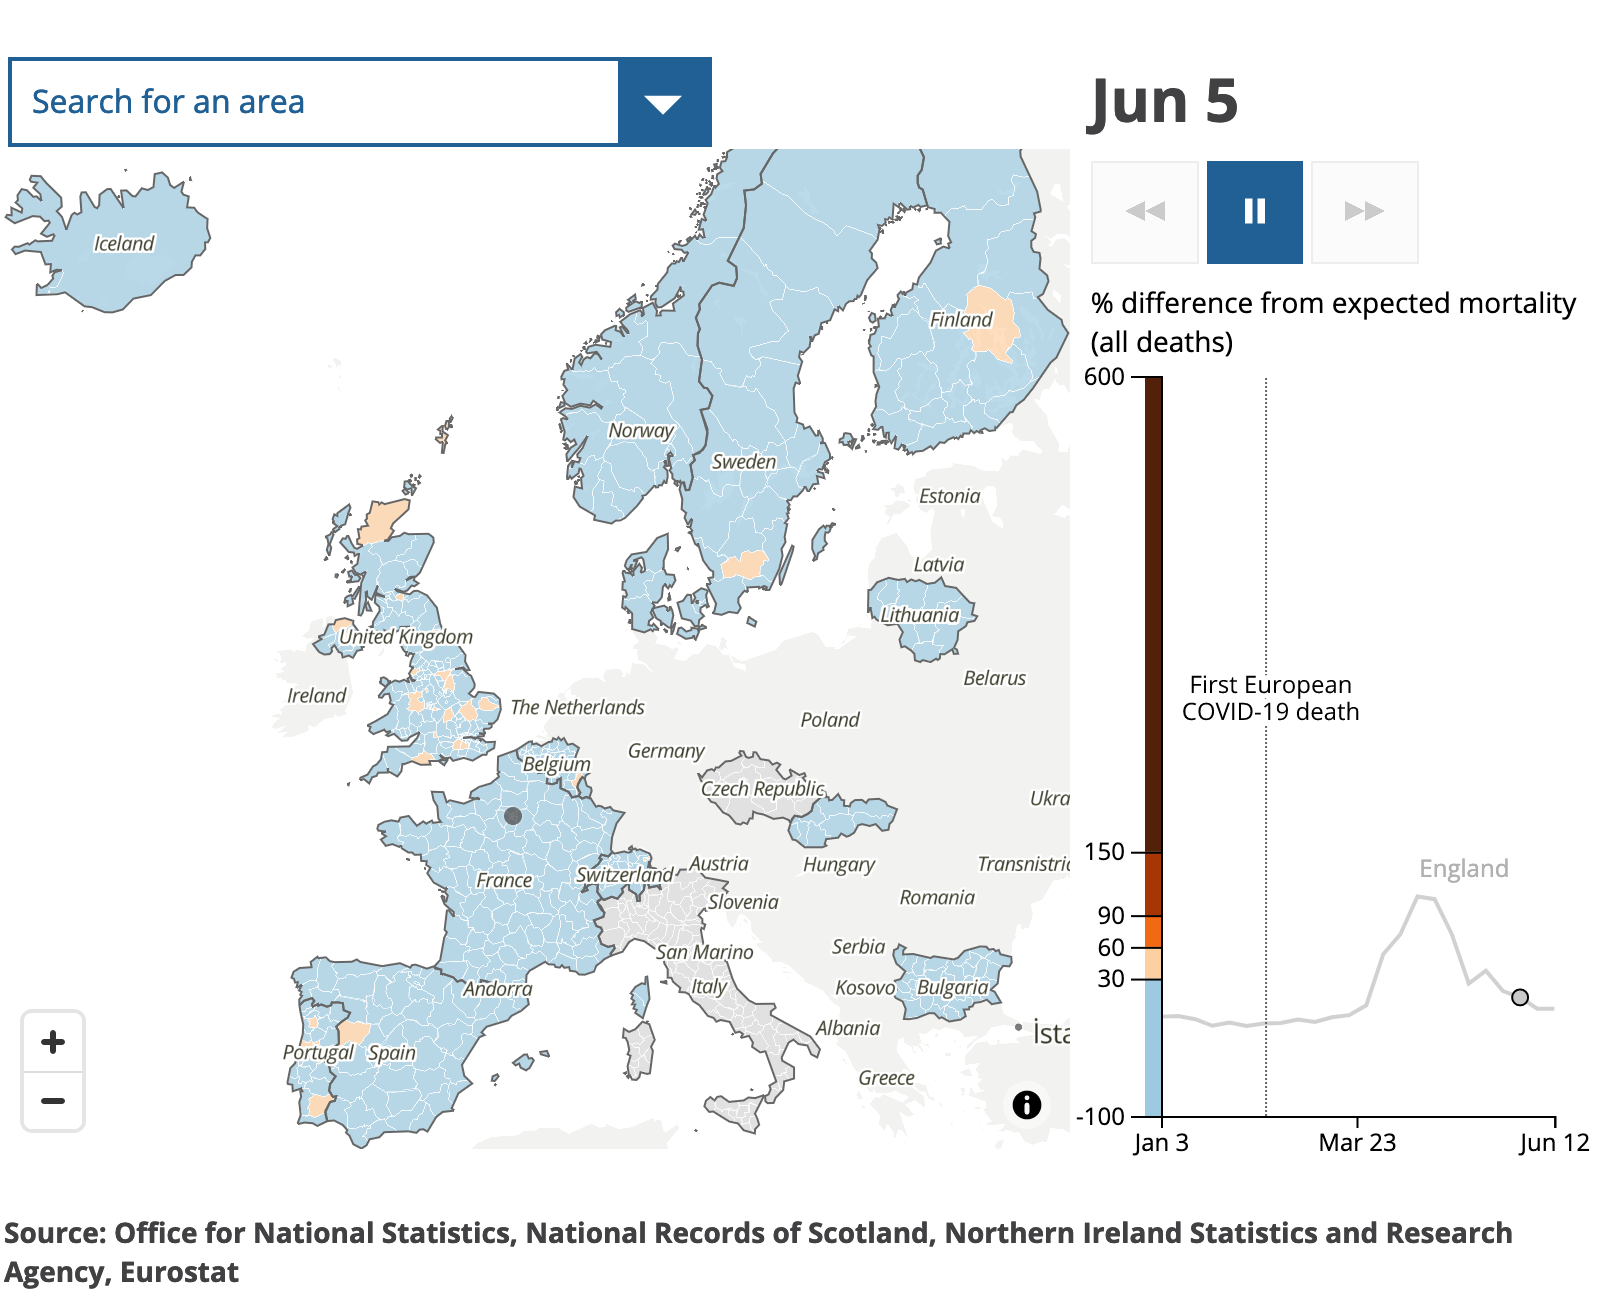
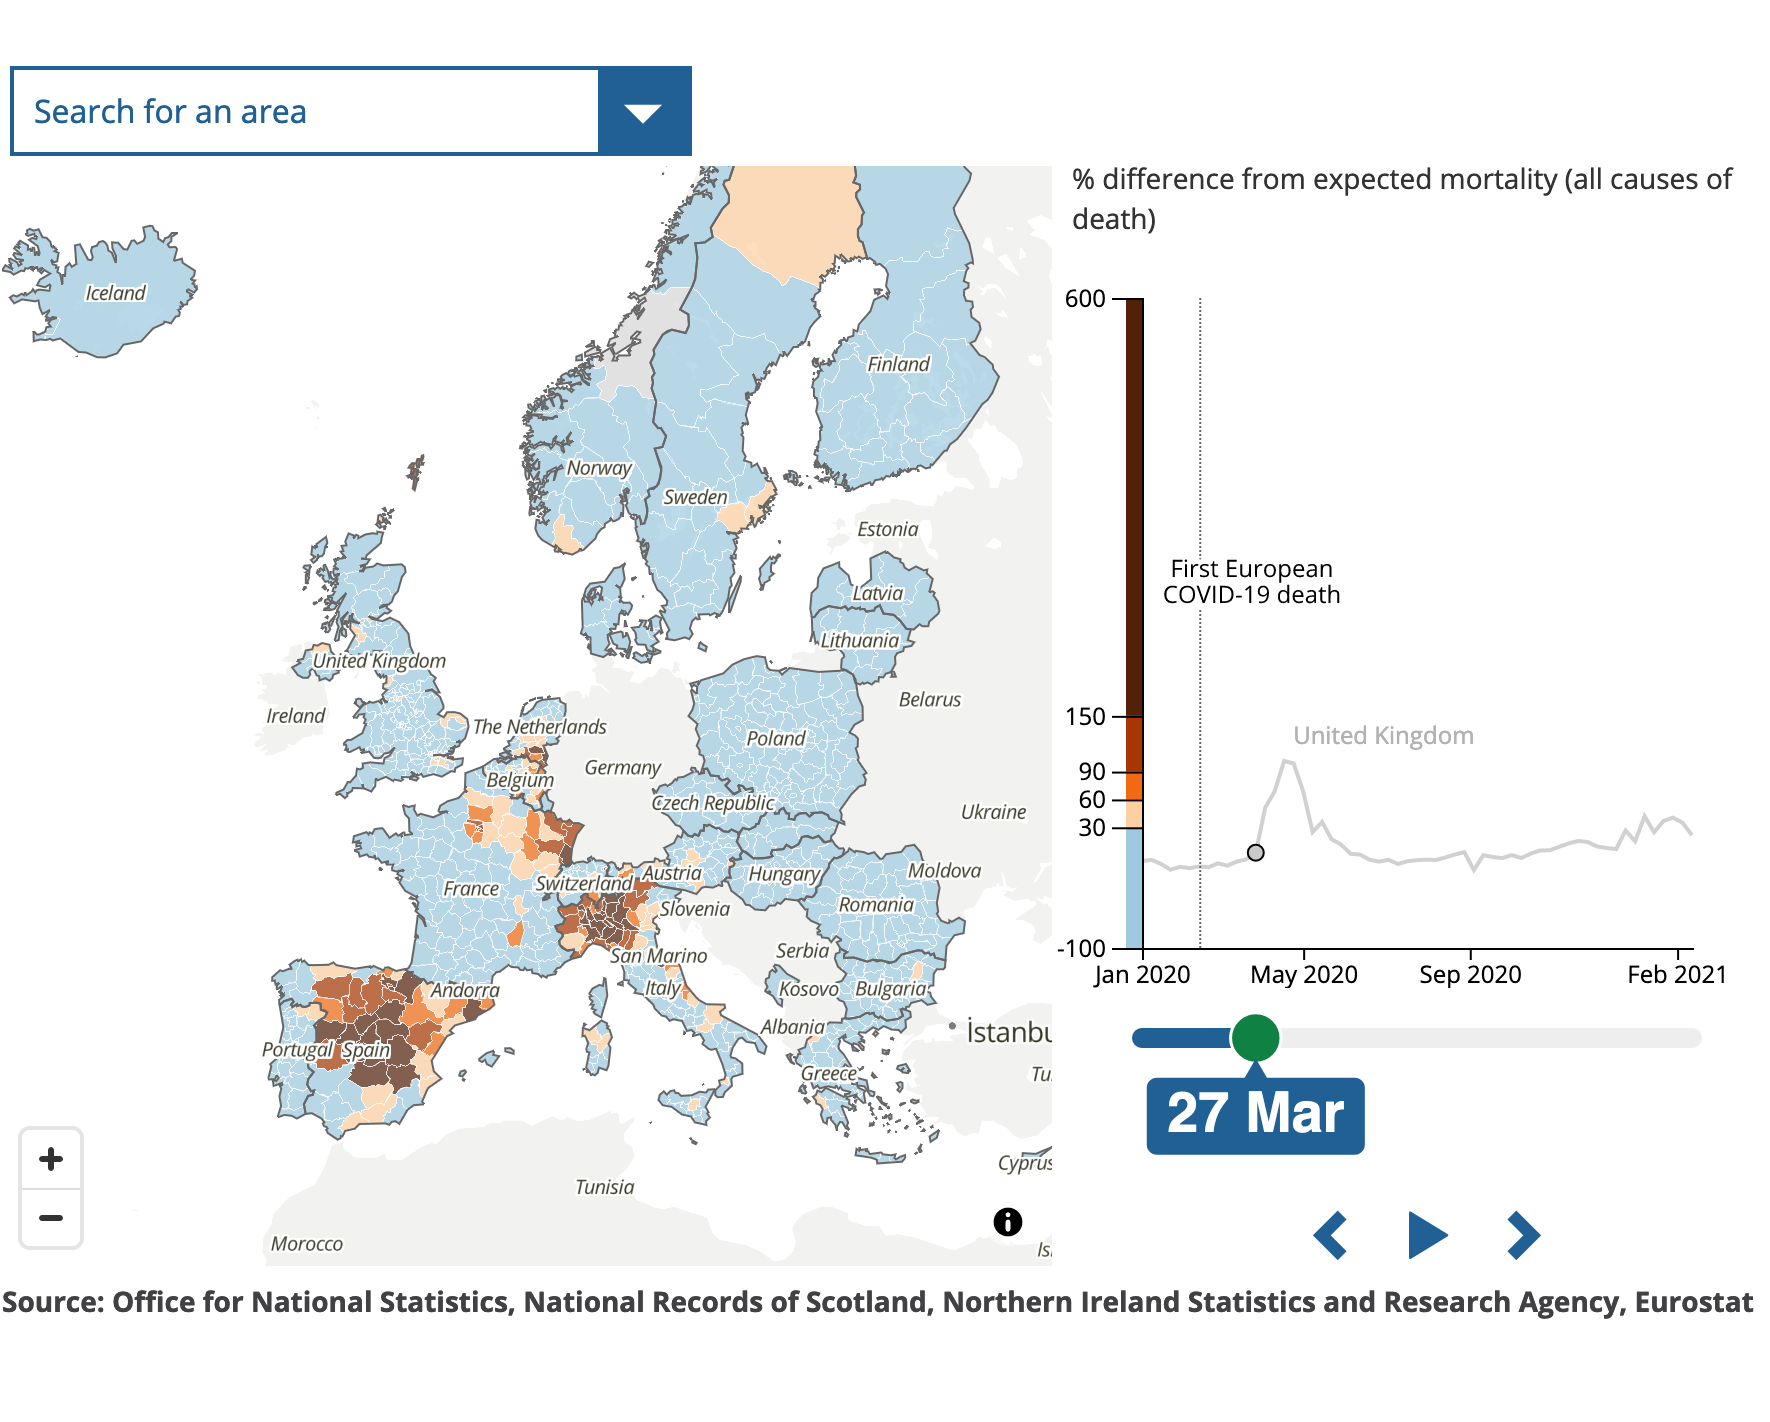
Update to portfolio

diff --git a/data.html b/data.html
@@ -171,11 +171,11 @@
           <p>I make statistics accessible with engaging interactive content...</p>
         </div>
         <div class="column">
-          <a target="_blank" rel="noopener noreferrer" href="https://www.ons.gov.uk/peoplepopulationandcommunity/birthsdeathsandmarriages/deaths/articles/comparisonsofallcausemortalitybetweeneuropeancountriesandregions/januarytojune2020">
+          <a target="_blank" rel="noopener noreferrer" href="https://www.ons.gov.uk/peoplepopulationandcommunity/birthsdeathsandmarriages/deaths/articles/comparisonsofallcausemortalitybetweeneuropeancountriesandregions/2020">
             <div class="img-container">
               <img src="europeanmortality.png" width="100%">
               <div class="overlay">
-                <div class="text">Map of European mortality showing the spread of COVID-19 throughout 2020 <br>(Figure 3)<br>Update coming soon</div>
+                <div class="text">Map of European mortality showing the spread of COVID-19 throughout 2020 <br>(Figure 2)</div>
               </div>
             </div>
           </a>
@@ -205,6 +205,35 @@
             <img src="householdcomposition.png" width="100%"></img>
           </a>
         </div> -->
+      </div>
+
+      <div class="row">
+        <div class="column">
+          <p></p>
+        </div>
+        <div class="column">
+          <a target="_blank" rel="noopener noreferrer" href="https://www.ons.gov.uk/peoplepopulationandcommunity/healthandsocialcare/conditionsanddiseases/articles/coronaviruscovid19roundup6to10july2020/2020-07-10">
+            <div class="img-container">
+              <img src="householdcomposition.png" width="100%"></img>
+              <div class="overlay">
+                <div class="text">Over 70s living with<br>younger people</div>
+              </div>
+            </div>
+          </a>
+        </div>
+        <div class="column">
+          <a target="_blank" rel="noopener noreferrer" href="https://www.ons.gov.uk/employmentandlabourmarket/peopleinwork/employmentandemployeetypes/articles/coronavirusandtraveltowork/june2020">
+            <div class="img-container">
+              <img src="traveltowork.png" width="100%"></img>
+              <div class="overlay">
+                <div class="text">Workers who use public transport and their industries</div>
+              </div>
+            </div>
+          </a>
+        </div>
+        <div class="column">
+          <p></p>
+        </div>
       </div>
 
       <div class="row">

diff --git a/index.html b/index.html
@@ -34,6 +34,10 @@
     alignment-baseline: middle;
   }
 
+  .moving-dots {
+    fill: #666;
+  }
+
 </style>
 
 <!-- <script src="https://cdn.ons.gov.uk/vendor/d3/4.2.7/d3.min.js"></script> -->
@@ -117,6 +121,7 @@
       .enter()
       .append("circle")
       .attr("id", function(d,i) { return "circle" + i })
+      .classed("moving-dots", true)
       .attr("r", 4)
       .attr("opacity", 0)
 
